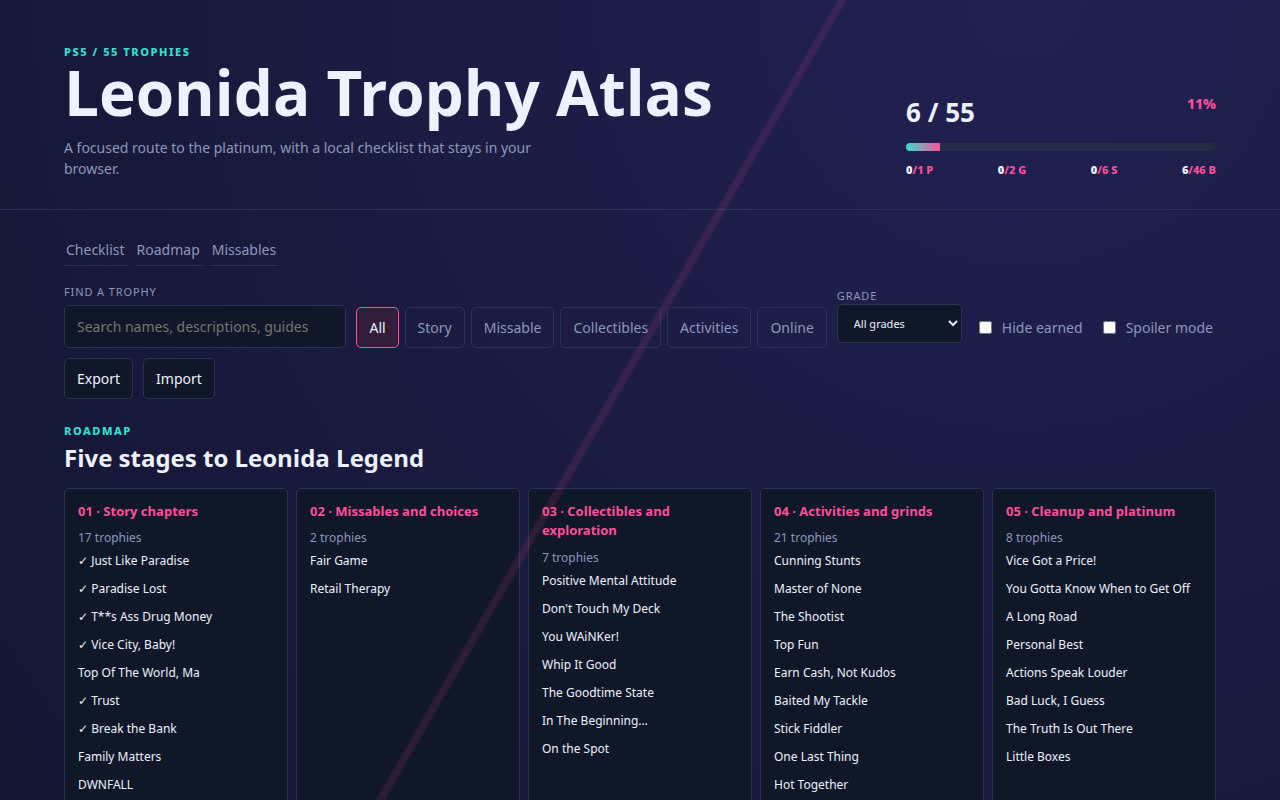
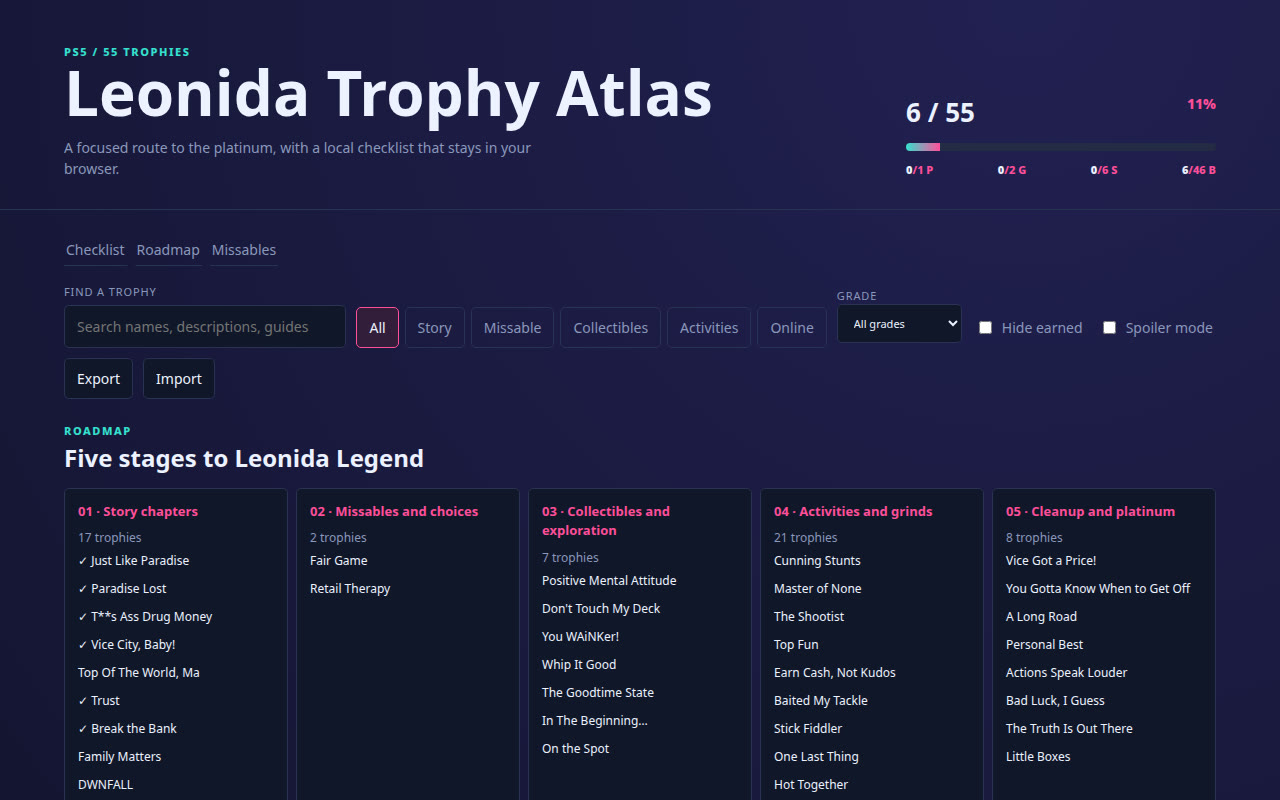
Fix diagonal glare, rewrite trophy guides, and surface source citations

diff --git a/app/style.css b/app/style.css
@@ -1,3 +1,4 @@
-:root{--bg:#080b18;--panel:#11162a;--panel2:#171d35;--line:#2a3355;--text:#edf2ff;--muted:#8c98bd;--pink:#ff4f9a;--teal:#36e0d0;--gold:#f2c45c;--silver:#c8d4e7;--bronze:#c8865c;--danger:#ff7b87}*{box-sizing:border-box}body{margin:0;background:radial-gradient(circle at 80% 0,#222052 0,#0b0d1c 38%,var(--bg) 72%);color:var(--text);font:14px/1.5 Inter,ui-sans-serif,system-ui,-apple-system,BlinkMacSystemFont,"Segoe UI",sans-serif}body:before{content:"";position:fixed;inset:0;pointer-events:none;opacity:.13;background:linear-gradient(120deg,transparent 0 48%,#ff4f9a 48.2% 48.5%,transparent 48.7% 100%)}
+:root{--bg:#080b18;--panel:#11162a;--panel2:#171d35;--line:#2a3355;--text:#edf2ff;--muted:#8c98bd;--pink:#ff4f9a;--teal:#36e0d0;--gold:#f2c45c;--silver:#c8d4e7;--bronze:#c8865c;--danger:#ff7b87}*{box-sizing:border-box}body{margin:0;background:radial-gradient(circle at 80% 0,#222052 0,#0b0d1c 38%,var(--bg) 72%);color:var(--text);font:14px/1.5 Inter,ui-sans-serif,system-ui,-apple-system,BlinkMacSystemFont,"Segoe UI",sans-serif}
 .views{display:flex;gap:8px;margin-bottom:18px}.views a{color:var(--muted);border-bottom:1px solid var(--line);padding:5px 2px;text-decoration:none}.views a:hover{color:var(--teal);border-color:var(--teal)}
+.detail .official{margin-bottom:6px}.detail .source{font-size:11px;margin-bottom:9px}.detail .detail-stage{font-size:12px;color:var(--teal);margin-bottom:12px}.detail .detail-warning{font-size:12px;color:var(--danger);border-left:2px solid var(--danger);padding-left:9px;margin-bottom:12px}
 .top,main,footer{max-width:1440px;margin:auto}.top{padding:44px 5vw 30px;display:flex;justify-content:space-between;gap:32px;border-bottom:1px solid var(--line)}h1,h2,h3,p{margin:0}h1{font-size:clamp(30px,5vw,62px);line-height:1;letter-spacing:0}h2{font-size:24px}.kicker{color:var(--teal);font-weight:800;letter-spacing:.14em;font-size:11px}.sub{color:var(--muted);margin-top:14px;max-width:510px}.summary{width:310px;align-self:end}.summary strong{font-size:26px}.summary span{float:right;color:var(--pink);font-weight:800}.bar{height:8px;background:#252b45;border-radius:8px;overflow:hidden;margin:11px 0}.bar i{display:block;height:100%;width:0;background:linear-gradient(90deg,var(--teal),var(--pink));transition:width .3s}.grade-counts{display:flex;justify-content:space-between;color:var(--muted);font-size:11px}.grade-counts b{color:var(--text)}main{padding:24px 5vw}.toolbar{display:flex;align-items:end;gap:10px;flex-wrap:wrap;margin-bottom:24px}.search{min-width:220px;flex:1}.search label,.select-label{display:block;color:var(--muted);font-size:11px;text-transform:uppercase;letter-spacing:.08em;margin-bottom:5px}input,select,button{font:inherit}input[type=search],select{width:100%;background:var(--panel);color:var(--text);border:1px solid var(--line);border-radius:5px;padding:10px 12px}.chips{display:flex;gap:6px;flex-wrap:wrap}.chip,.action{border:1px solid var(--line);background:transparent;color:var(--muted);padding:9px 12px;border-radius:5px;cursor:pointer}.chip.active,.chip:hover,.action:hover{color:var(--text);border-color:var(--pink);background:#321d3b}.select-label{width:125px}.toggle{display:flex;gap:7px;align-items:center;color:var(--muted);padding:10px 3px;white-space:nowrap}.toggle input{accent-color:var(--pink)}.action{color:var(--text);background:var(--panel)}.content{display:grid;grid-template-columns:minmax(0,1.25fr) minmax(300px,.75fr);gap:24px}.view-head{display:flex;justify-content:space-between;align-items:end;margin-bottom:12px}.view-head span{color:var(--muted);font-size:12px}.list{display:grid;gap:8px}.trophy{display:grid;grid-template-columns:30px 1fr auto;gap:12px;align-items:center;background:var(--panel);border:1px solid var(--line);border-left:3px solid var(--line);padding:13px 14px;border-radius:5px;cursor:pointer;box-shadow:0 7px 20px #0002}.trophy:hover,.trophy.open{border-color:var(--pink);transform:translateY(-1px)}.trophy.earned{opacity:.62;border-left-color:var(--teal)}.trophy input{width:18px;height:18px;accent-color:var(--teal)}.trophy h3{font-size:15px}.trophy p{color:var(--muted);font-size:12px;margin-top:3px}.meta{display:flex;gap:6px;flex-wrap:wrap;justify-content:end}.badge,.tag,.warn{font-size:10px;text-transform:uppercase;letter-spacing:.06em;border:1px solid var(--line);padding:3px 6px;border-radius:3px}.badge{font-weight:800}.platinum{color:#5ce9ff}.gold{color:var(--gold)}.silver{color:var(--silver)}.bronze{color:var(--bronze)}.tag{color:var(--muted)}.warn{color:var(--danger);border-color:#7b384b}.detail{position:sticky;top:20px;align-self:start;background:linear-gradient(150deg,var(--panel2),var(--panel));border:1px solid #424d79;padding:22px;border-radius:6px;min-height:300px;box-shadow:0 15px 40px #0005}.detail .badge{display:inline-block;margin-bottom:13px}.detail h2{font-size:27px;margin-bottom:8px}.detail .official{color:var(--muted);padding:12px 0;border-block:1px solid var(--line);margin:14px 0}.detail h3{font-size:11px;text-transform:uppercase;letter-spacing:.1em;color:var(--teal);margin:16px 0 7px}.detail ol{padding-left:20px;color:var(--text)}.detail li{margin:5px 0}.source{color:var(--muted);font-size:12px}.roadmap{display:none;margin-bottom:26px}.roadmap.visible{display:block}.stages{display:grid;grid-template-columns:repeat(5,1fr);gap:8px}.stage{background:var(--panel);border:1px solid var(--line);padding:13px;border-radius:5px}.stage h3{color:var(--pink);font-size:13px}.stage p{color:var(--muted);font-size:12px;margin-top:8px}.stage button{display:block;width:100%;text-align:left;background:none;border:0;color:var(--text);padding:5px 0;cursor:pointer;font-size:12px}.stage button:hover{color:var(--teal)}footer{padding:24px 5vw 40px;color:var(--muted);font-size:12px;border-top:1px solid var(--line)}footer a{color:var(--teal)}code{color:var(--pink)}@media(max-width:900px){.top{display:block}.summary{width:auto;margin-top:28px}.content{grid-template-columns:1fr}.detail{position:static}.stages{grid-template-columns:1fr 1fr}}@media(max-width:550px){.top,main,footer{padding-left:18px;padding-right:18px}.stages{grid-template-columns:1fr}.trophy{grid-template-columns:24px 1fr}.meta{grid-column:2;justify-content:start}.toolbar{align-items:stretch}.select-label{width:100%}}

diff --git a/app/app.js b/app/app.js
@@ -6,7 +6,7 @@ function visible(t){const q=(t.name+' '+t.description+' '+t.guide).toLowerCase()
 function renderProgress(){const n=state.earned.size;const grades=['platinum','gold','silver','bronze'];$('earnedCount').textContent=`${n} / 55`;$('percent').textContent=`${Math.round(n/55*100)}%`;$('progressBar').style.width=`${n/55*100}%`;$('gradeCounts').innerHTML=grades.map(g=>{const total=state.data.trophies.filter(t=>t.grade===g).length;const done=state.data.trophies.filter(t=>t.grade===g&&state.earned.has(t.id)).length;return `<span class="${g}"><b>${done}</b>/${total} ${g[0].toUpperCase()}</span>`}).join('')}
 function renderKinds(){ $('kindFilters').innerHTML=kinds.map(k=>`<button class="chip ${state.kind===k?'active':''}" data-kind="${k}">${k[0].toUpperCase()+k.slice(1)}</button>`).join('');document.querySelectorAll('[data-kind]').forEach(b=>b.onclick=()=>{state.kind=b.dataset.kind;renderKinds();renderList()})}
 function renderList(){const rows=state.data.trophies.filter(visible);$('resultCount').textContent=`${rows.length} shown`;$('list').innerHTML=rows.map(t=>`<article class="trophy ${state.earned.has(t.id)?'earned':''} ${state.open===t.id?'open':''}" data-open="${t.id}"><input type="checkbox" data-check="${t.id}" ${state.earned.has(t.id)?'checked':''} aria-label="Mark ${title(t)} earned"><div><h3>${title(t)}</h3><p>${state.spoiler&&!state.earned.has(t.id)&&t.hidden?'Description hidden in spoiler mode':t.description}</p></div><div class="meta"><span class="badge ${t.grade}">${t.grade}</span><span class="tag">${t.kind}</span>${t.missable?'<span class="warn">Missable</span>':''}</div></article>`).join('')||'<p class="sub">No trophies match these filters.</p>';document.querySelectorAll('[data-open]').forEach(x=>x.onclick=e=>{if(e.target.matches('input'))return;state.open=Number(x.dataset.open);renderList();renderDetail()});document.querySelectorAll('[data-check]').forEach(x=>x.onchange=()=>{const id=Number(x.dataset.check);x.checked?state.earned.add(id):state.earned.delete(id);save();renderDetail()})}
-function renderDetail(){const t=state.data.trophies.find(x=>x.id===state.open)||state.data.trophies[0];if(!t){return}const masked=state.spoiler&&!state.earned.has(t.id)&&t.hidden;$('detail').innerHTML=`<span class="badge ${t.grade}">${t.grade}</span><h2>${masked?'Hidden trophy':t.name}</h2><p class="official">${masked?'Description hidden in spoiler mode':t.description}</p><p>${masked?'Earn this trophy to reveal its guide.':t.guide}</p>${!masked?`<h3>Steps</h3><ol>${t.steps.split(';').map(s=>`<li>${s}</li>`).join('')}</ol><h3>Roadmap</h3><p>Stage ${t.stage}: ${stageName(t.stage)}</p><h3>Source</h3><p class="source">${t.source}</p>`:''}`}
+function renderDetail(){const t=state.data.trophies.find(x=>x.id===state.open)||state.data.trophies[0];if(!t){return}const masked=state.spoiler&&!state.earned.has(t.id)&&t.hidden;$('detail').innerHTML=`<span class="badge ${t.grade}">${t.grade}</span><h2>${masked?'Hidden trophy':t.name}</h2><p class="official">${masked?'Description hidden in spoiler mode':t.description}</p><p class="source">Source: ${t.source}</p><p class="detail-stage">Roadmap · Stage ${t.stage}: ${stageName(t.stage)}</p>${t.missable?'<p class="detail-warning"><strong>Missable:</strong> Keep a separate save before this encounter and resolve its conditions before moving on.</p>':''}<p>${masked?'Earn this trophy to reveal its guide.':t.guide}</p>${!masked?`<h3>Steps</h3><ol>${t.steps.split(';').map(s=>`<li>${s}</li>`).join('')}</ol>`:''}`}
 function stageName(n){return ['','Story chapters','Missables and choices','Collectibles and exploration','Activities and grinds','Cleanup and platinum'][n]}
 function renderRoadmap(){const box=$('roadmap');const view=new URLSearchParams(location.hash.slice(1)).get('view');if(view==='missables'){state.kind='missable';renderKinds();$('listTitle').textContent='Missable trophies';box.classList.remove('visible');renderList();return}if(view!=='roadmap'){box.classList.remove('visible');$('listTitle').textContent='All trophies';return}box.classList.add('visible');box.innerHTML='<div class="view-head"><div><p class="kicker">ROADMAP</p><h2>Five stages to Leonida Legend</h2></div></div><div class="stages">'+[1,2,3,4,5].map(n=>`<div class="stage"><h3>0${n} · ${stageName(n)}</h3><p>${state.data.trophies.filter(t=>t.stage===n).length} trophies</p>${state.data.trophies.filter(t=>t.stage===n).map(t=>`<button data-stage-open="${t.id}">${state.earned.has(t.id)?'✓ ':''}${title(t)}</button>`).join('')}</div>`).join('')+'</div>';document.querySelectorAll('[data-stage-open]').forEach(b=>b.onclick=()=>{state.open=Number(b.dataset.stageOpen);location.hash='';renderRoadmap();renderList();renderDetail()})}
 function exportProgress(){const blob=new Blob([JSON.stringify({game:'Grand Theft Auto VI',earned:[...state.earned].sort((a,b)=>a-b)},null,2)],{type:'application/json'});const a=document.createElement('a');a.href=URL.createObjectURL(blob);a.download='leonida-trophy-progress.json';a.click();URL.revokeObjectURL(a.href)}
